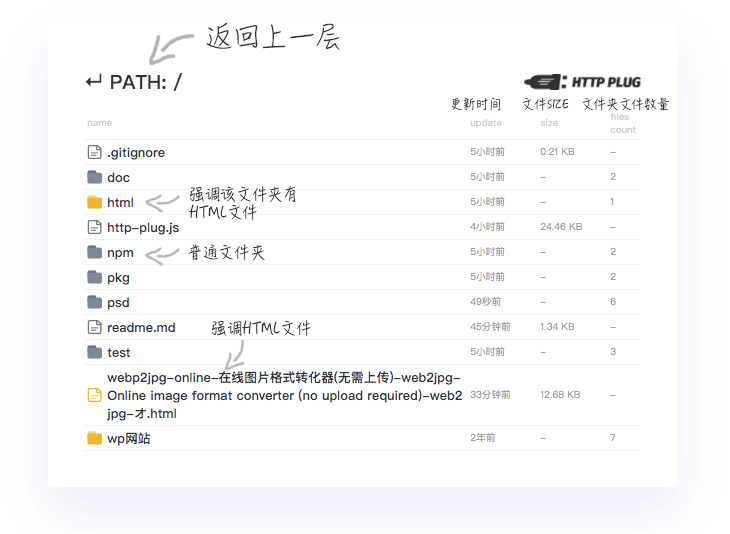
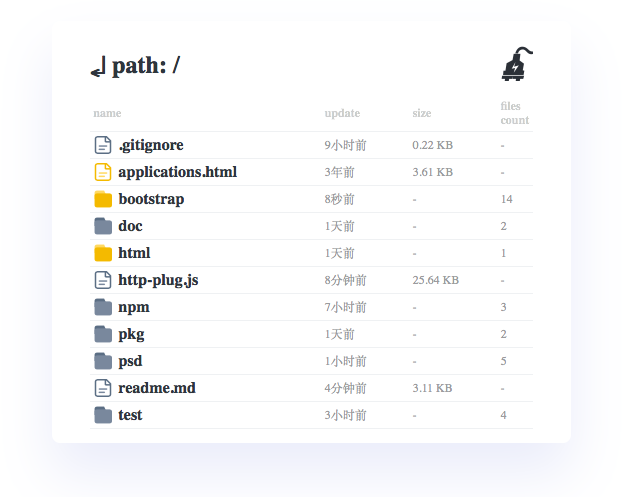
update readme

diff --git a/readme.md b/readme.md
@@ -17,7 +17,7 @@
 
 
 <p align="center">
-<img src="https://cdn.jsdelivr.net/gh/renzhezhilu/http-plug/psd/http-plug-UI02.png">
+<img src="https://cdn.jsdelivr.net/gh/renzhezhilu/http-plug/psd/http-plug-ui.png">
 </p>
 
 
